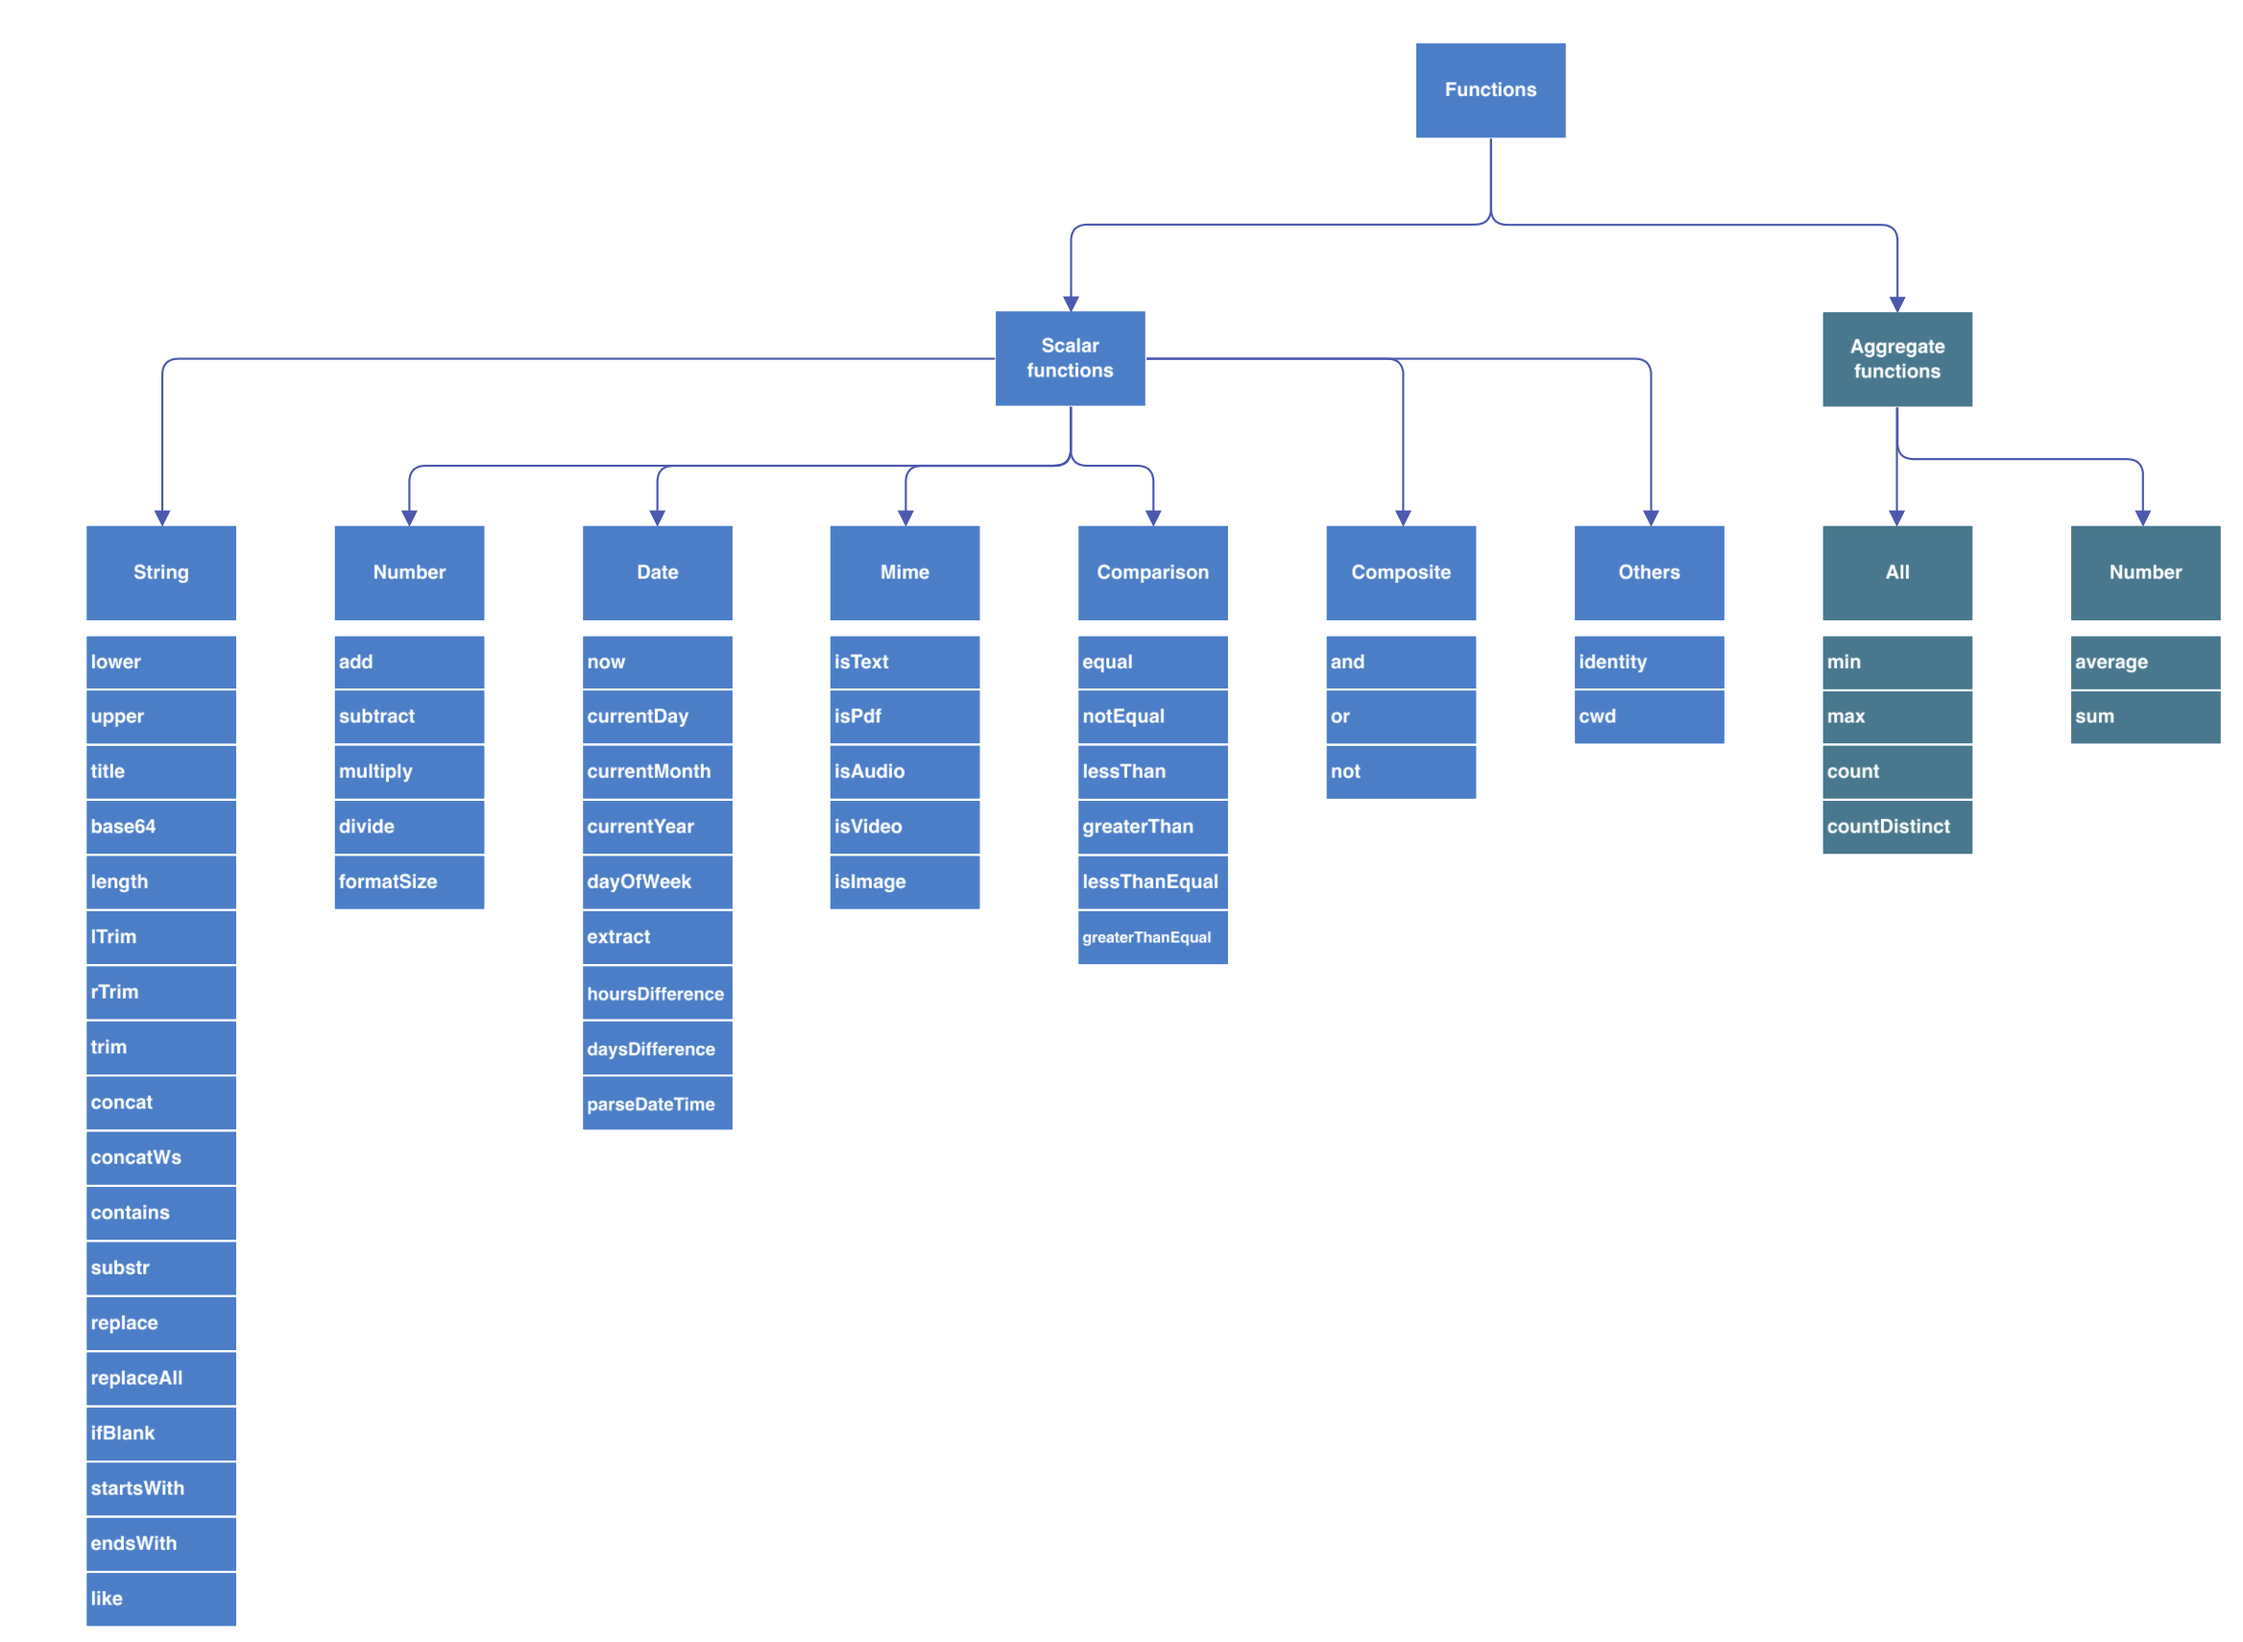
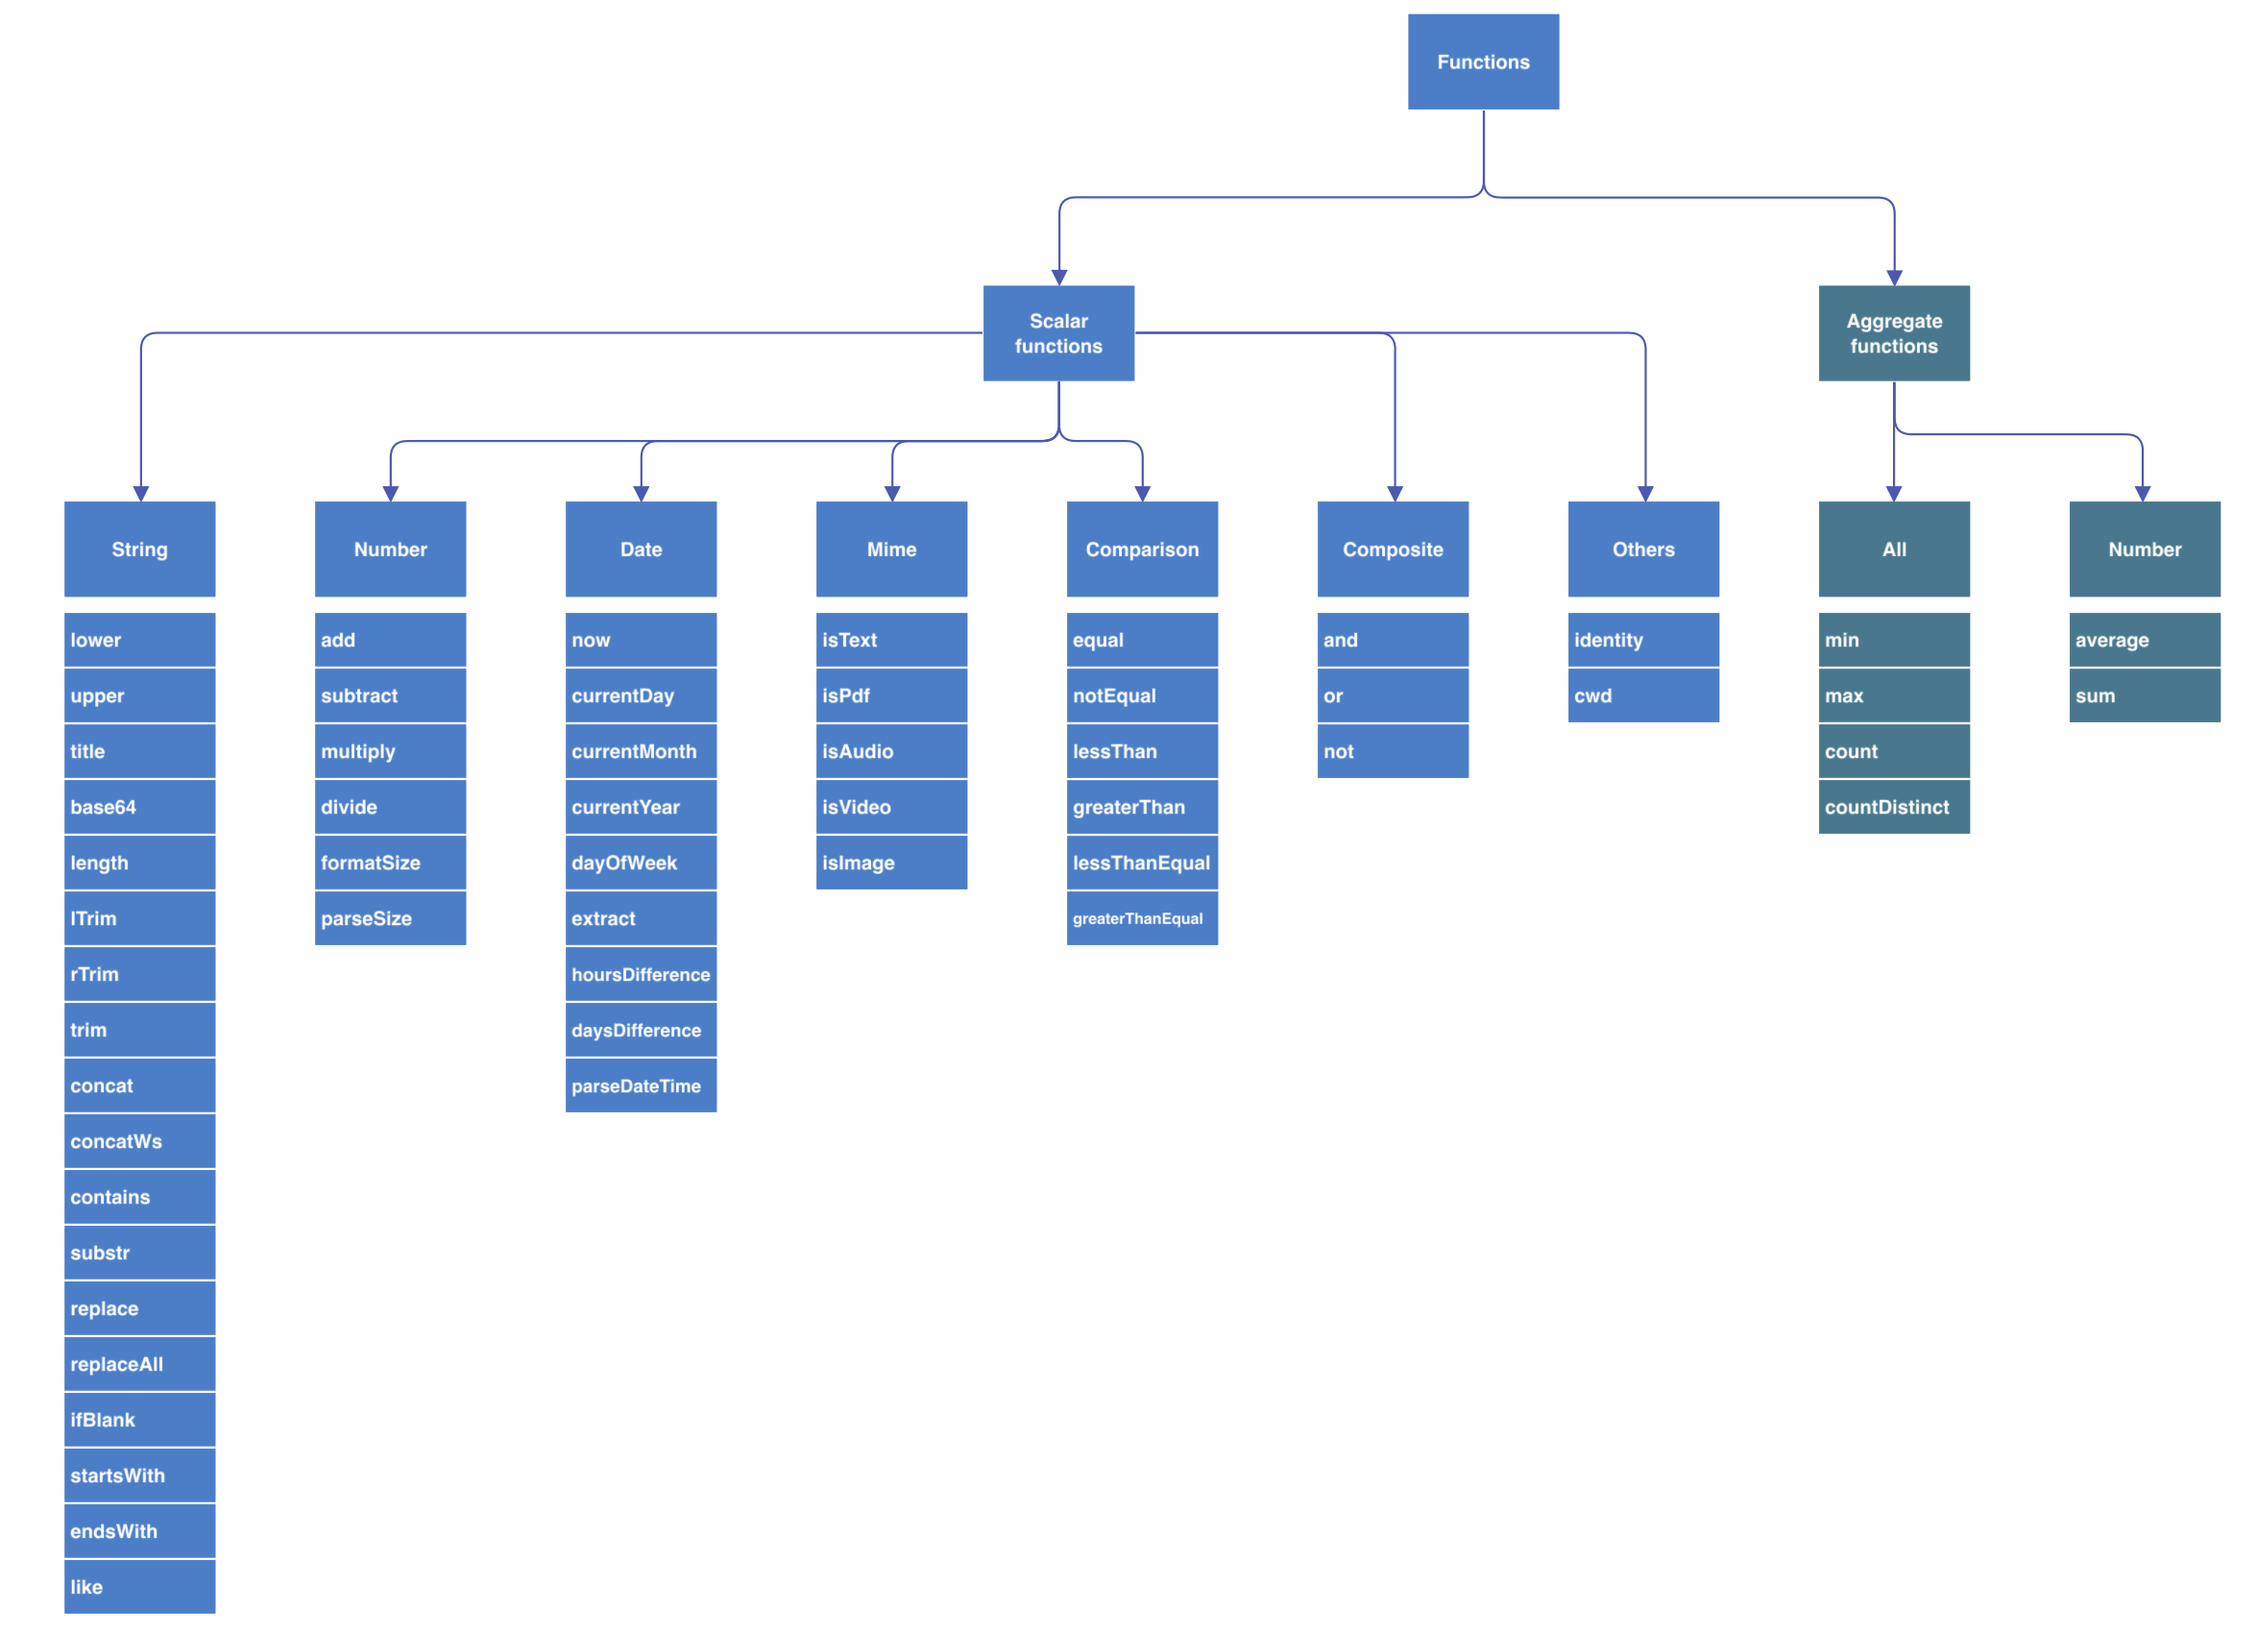
Sarthak | Updates README

diff --git a/README.md b/README.md
@@ -30,6 +30,7 @@ The project *goselect* was created to understand the following:
     * [MacOS](#macos)
     * [Linux AMD64](#linux-amd64)
   * [Changelog](#changelog)
+    * [Version 0.0.5](#version-005)
     * [Version 0.0.4](#version-004)
     * [Version 0.0.3](#version-003)
     * [Version 0.0.2](#version-002)
@@ -115,6 +116,14 @@ select * from . where eq(name, sample)
    - `mkdir goselect && tar xvf goselect_0.0.4_Linux_x86_64.tar.gz -C goselect`
 
 # Changelog
+
+### Version 0.0.5
+
+1. Addition of a new function parseSize makes the comparison based on file size easier. Use, `select * from . where gt(size, parseSize(15 Mb))`
+2. Addition of 't' as a shorthand for the flag 'term' in describe command
+3. Addition of new flags 'minWidth' and 'maxWidth' for controlling the width of the attributes while exporting as table. Usage: `goselect ex -q='select name, ext, size, fmtsize(size), isdir from .' --minWidth=10 --maxWidth=50`, will put a minimum of 10 characters and maximum of 50 characters in each row. 
+4. Table export does not capitalize the headers
+5. Removal of 'sorted' flag from listAttributes, listFunctions, listWhereClauseFunctions and listTimeFormats commands
 
 ### Version 0.0.4
 
@@ -225,7 +234,7 @@ goselect ex -q='select concat(basename, ext, fmtsize(size)) from .'
 goselect ex -q='select concatWs(basename, ext, fmtsize(size), @) from .'
 ```
 
-14. **Determine if a file name contains a string project**
+14. **Determine if a file name contains the string project**
 ```SQL
 goselect ex -q='select name, contains(name, project) from .'
 ```
@@ -306,7 +315,7 @@ goselect ex -q='select min(len(name)), max(len(name)) from .'
 
 ### Where clause
 
-1. **Select file name and extension of all the files containing a string go in their name**
+1. **Select file name and extension of all the files containing the string go in their name**
 ```SQL
 goselect ex -q='select name, extension from . where contains(name, go)'
 ```
@@ -351,7 +360,7 @@ goselect ex -q='select name, extension from . where isVideo(mime)'
 goselect ex -q='select name, extension from . where isPdf(mime)'
 ```
 
-10. **Select file name, extension and size of all the files if there size is greater than 1 Mib**
+10. **Select file name, extension and size of all the files if their size is greater than 1 Mib**
 ```SQL
 goselect ex -q='select name, extension, size, fmtsize(size) from . where gt(size, mul(1, 1024, 1024))'
 
@@ -361,8 +370,12 @@ goselect ex -q='select name, extension, size, fmtsize(size) from . where gt(size
 ```SQL
 goselect ex -q='select name, extension, size, fmtsize(size) from . where gt(size, 1048576)'
 ```
+**Or (Version 0.0.5)**
+```SQL
+goselect ex -q='select name, extension, size, fmtsize(size) from . where gt(size, parseSize(1 Mib))'
+```
 
-11. **Select file name, extension and size of all the files if there size is greater than or equal to 1 Mib**
+11. **Select file name, extension and size of all the files if their size is greater than or equal to 1 Mib**
 ```SQL
 goselect ex -q='select name, extension, size, fmtsize(size) from . where gte(size, mul(1, 1024, 1024))'
 ```
@@ -370,17 +383,25 @@ goselect ex -q='select name, extension, size, fmtsize(size) from . where gte(siz
 ```SQL
 goselect ex -q='select name, extension, size, fmtsize(size) from . where gte(size, 1048576)'
 ```
-
-12. **Select file name, extension and size of all the files if there size is less than 1 Mib**
+**Or (Version 0.0.5)**
 ```SQL
-goselect ex -q='select name, extension, size, fmtsize(size) from . where le(size, mul(1, 1024, 1024))'
+goselect ex -q='select name, extension, size, fmtsize(size) from . where gte(size, parseSize(1 Mib))'
+```
+
+12. **Select file name, extension and size of all the files if their size is less than 1 Mib**
+```SQL
+goselect ex -q='select name, extension, size, fmtsize(size) from . where lt(size, mul(1, 1024, 1024))'
 ```
 **Or**
 ```SQL
-goselect ex -q='select name, extension, size, fmtsize(size) from . where le(size, 1048576)'
+goselect ex -q='select name, extension, size, fmtsize(size) from . where lt(size, 1048576)'
+```
+**Or (Version 0.0.5)**
+```SQL
+goselect ex -q='select name, extension, size, fmtsize(size) from . where lt(size, parseSize(1 Mib))'
 ```
 
-13. **Select file name, extension and size of all the files if there size is less than or equal to 1 Mib**
+13. **Select file name, extension and size of all the files if their size is less than or equal to 1 Mib**
 ```SQL
 goselect ex -q='select name, extension, size, fmtsize(size) from . where lte(size, mul(1, 1024, 1024))'
 ```
@@ -388,10 +409,18 @@ goselect ex -q='select name, extension, size, fmtsize(size) from . where lte(siz
 ```SQL
 goselect ex -q='select name, extension, size, fmtsize(size) from . where lte(size, 1048576)'
 ```
+**Or (Version 0.0.5)**
+```SQL
+goselect ex -q='select name, extension, size, fmtsize(size) from . where lte(size, parseSize(1 Mib))'
+```
 
-14. **Select file name, extension and size of all the files if there size equal to 600 bytes**
+14. **Select file name, extension and size of all the files if their size equal to 600 bytes**
 ```SQL
 goselect ex -q='select name, extension, size, fmtsize(size) from . where eq(size, 600)'
+```
+**Or (Version 0.0.5)**
+```SQL
+goselect ex -q='select name, extension, size, fmtsize(size) from . where eq(size, parseSize(600 B))'
 ```
 
 15. **Select file name, extension and size of all the files if their extension is equal to .go**
@@ -628,9 +657,7 @@ select * from . where lt(size, (add(2, 3)))
 # Planned changes
 
 1. Support for groups in regular expressions. 
-2. Support for matching file size with units. For example, `select * from . where gt(size, parsesize(15 Mb))` Or `select * from . where gt(size, parsesize(15 Mib))`
-3. Support for checking if a (text) file contains a specific term
-4. Improving table formatter to handle the formatting for large number of columns
-5. Caching the expression results. This is useful for cases like `select lower(name) from . where eq(lower(name), sample)`. In this example, `lower(name)` need not be evaluated twice for a row 
-6. Support for concurrent execution and streaming the results as soon as available. Will not work for `order by` and `aggregate` functions. It is applicable for queries that involve scalar functions without order by. It makes sense to use this feature where the number of files is too many, say more than 0.1 million
-7. Support installation using `brew`, `apt`, `yum`
+2. Support for checking if a (text) file contains a specific term
+3. Caching the expression results. This is useful for cases like `select lower(name) from . where eq(lower(name), sample)`. In this example, `lower(name)` need not be evaluated twice for a row 
+4. Support for concurrent execution and streaming the results as soon as available. Will not work for `order by` and `aggregate` functions. It is applicable for queries that involve scalar functions without order by. It might make sense to use this feature where the number of files is too many, say more than 0.1 million
+5. Support installation using `brew`, `apt`, `yum`
